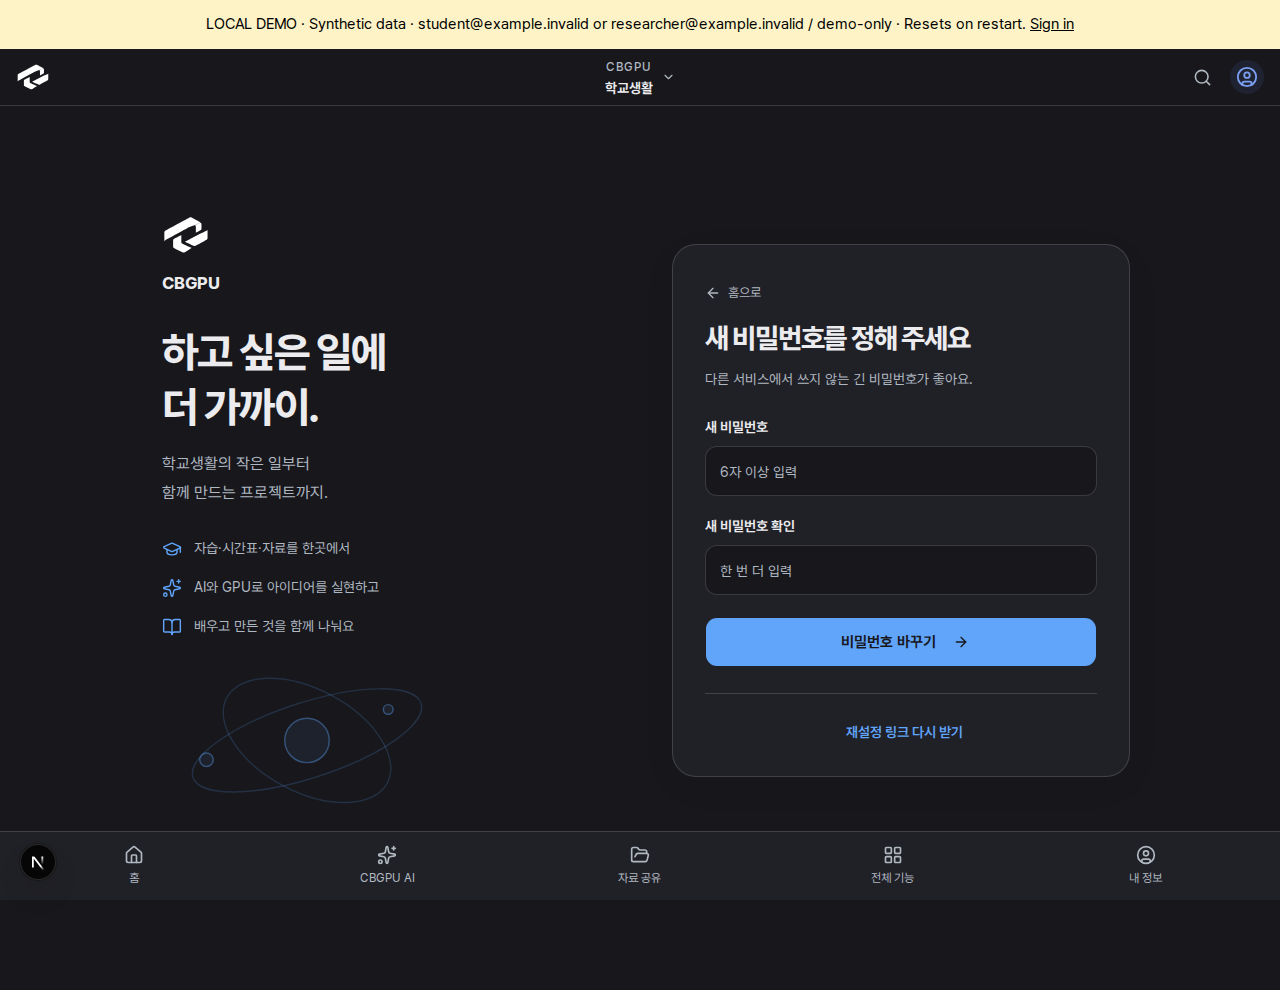
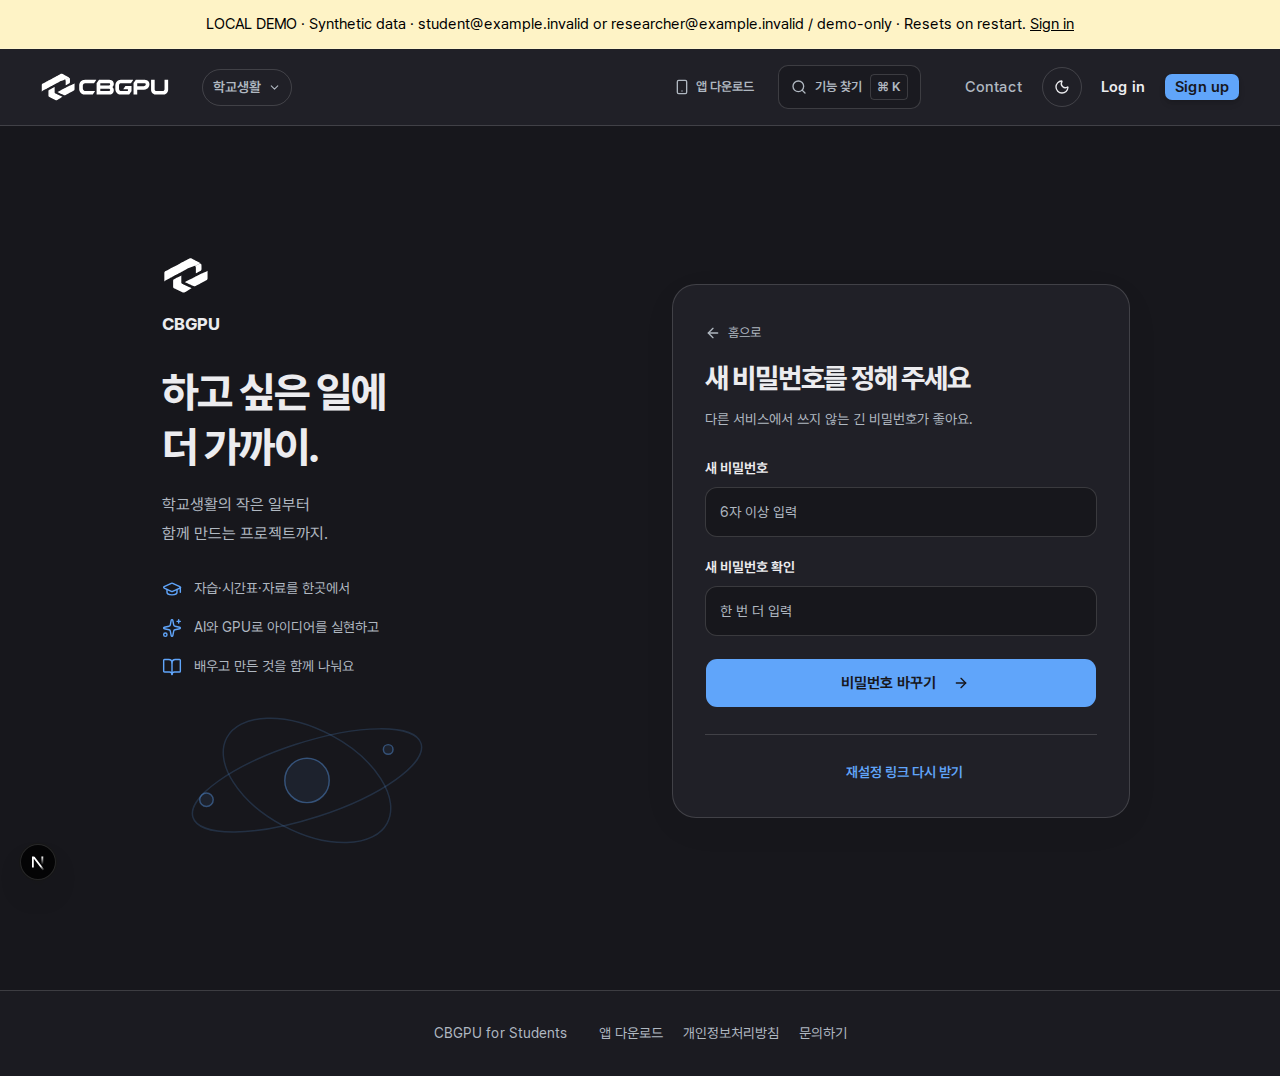
test(auth): gate cold link activation and capture actual desktop frame

diff --git a/docs/DEVELOPMENT.md b/docs/DEVELOPMENT.md
@@ -162,3 +162,10 @@ Screenshots use synthetic data in [docs/ux/launch-20261118](./ux/launch-20261118
 
 The production-only npm dependency audit (`npm audit --omit=dev`) reported zero known
 vulnerabilities at review time. This is a point-in-time advisory check, not a proof of security.
+
+Cold-page verification caught an additional return-link race before passive React effects.
+The opt-in regression `CBGPU_BROWSER_QA=1 node --test tests/auth-flow-link.browser.test.mts`
+activates the real link component before its passive effect, checking ordinary/keyboard
+activation and preserving native modifier, target and download behavior. Browser CI runs it.
+Desktop screenshots were retaken using the actual desktop frame, with visible app navigation
+explicitly excluded; viewport width alone is not treated as a frame-selection test.
